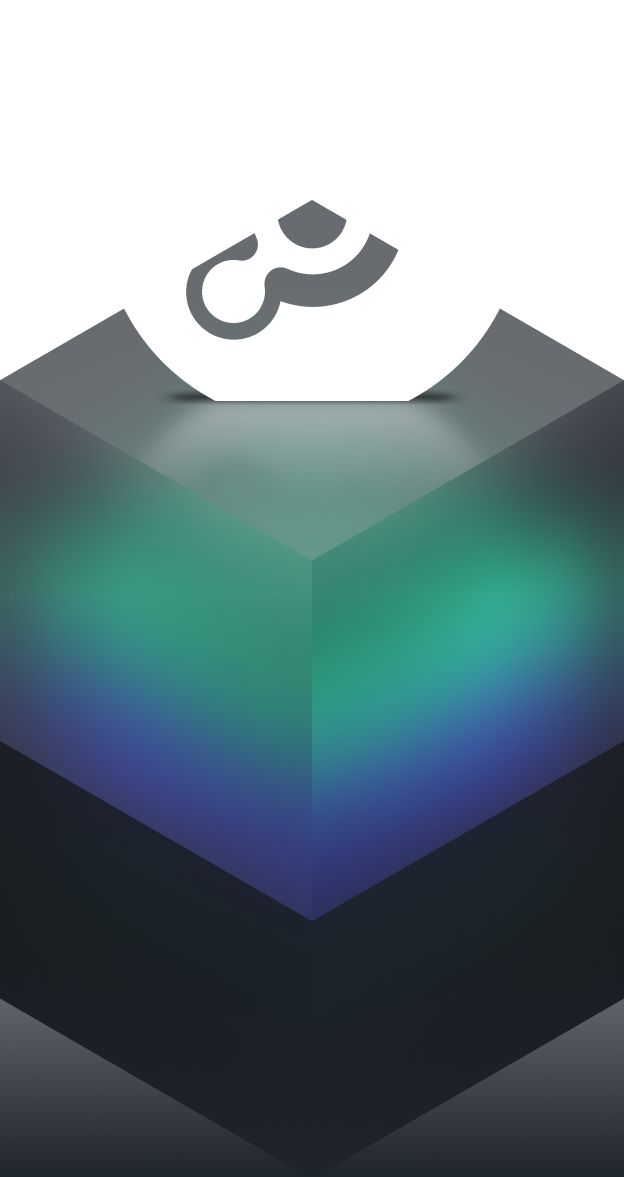
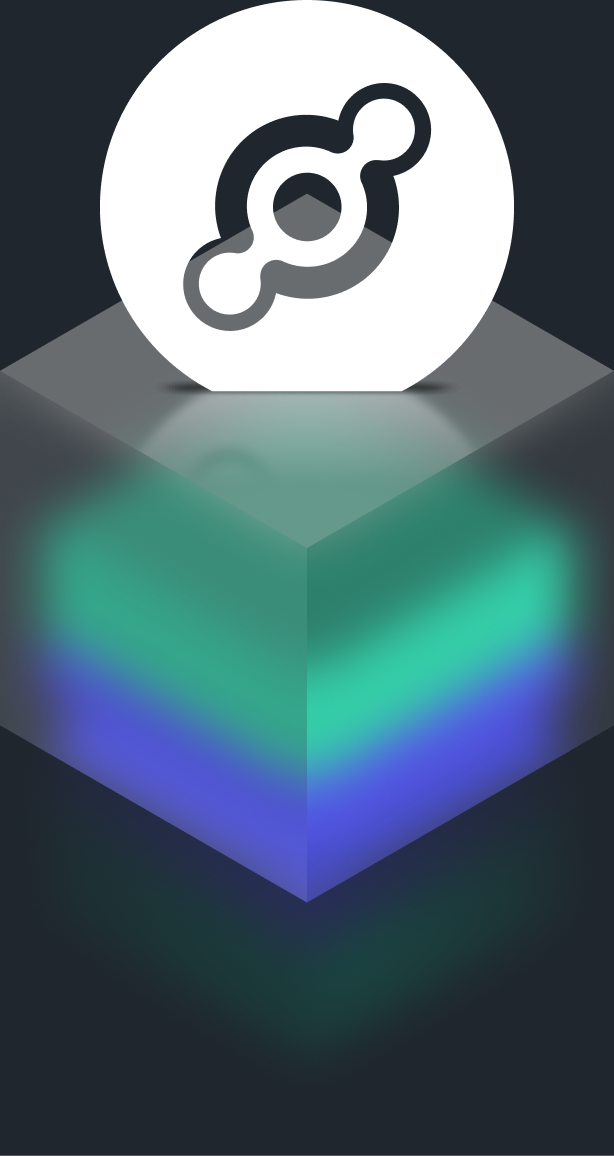
Jh/styling (#140)
* Use pre-rendered Helium Governance logo
* Fix thin white line around token logos
* Touchup hero
* Some padding to help the hero icon not look stuck to the edge
* Touchup network selectors
* Simplify opening banner copy
* Drop card border
* Touchup and shrink 'no active votes' placeholder.
* Touchup header pt 2

diff --git a/src/components/Header.tsx b/src/components/Header.tsx
@@ -23,10 +23,21 @@ export const Header: FC<{
             href="/"
             className="flex flex-row justifiy-center items-center gap-2"
           >
-            <div className="size-8 rounded-full relative">
-              <Image alt="logo" src="/images/logo.svg" fill />
+            <div className="size-8 relative sm:hidden">
+              <Image
+                alt="Helium Governance Logo"
+                src="/images/logo-roundel.svg"
+                fill
+              />
             </div>
-            <h4 className="max-sm:hidden">governance</h4>
+            <div className="h-8 w-36 relative max-sm:hidden">
+              <Image
+                alt="Helium Governance Logo"
+                src="/images/logo-wordmark.svg"
+                width={140}
+                height={20}
+              />
+            </div>
           </Link>
           <div className="flex flex-row flex-grow gap-4 justify-end items-center">
             <VeTokensCallout />
@@ -36,13 +47,17 @@ export const Header: FC<{
       </div>
       {!hideHero && (
         <ContentSection>
-          <div className="flex flex-row h-[342px] py-6 justify-between max-md:py-12 max-md:h-auto">
+          <div className="flex flex-row h-[342px] py-6 justify-between items-start max-md:py-12 max-md:h-auto">
             <div className="flex justify-center items-center">
               <div>
-                <h1>Helium Governance</h1>
-                <p className="max-w-lg mt-4 text-slate-50">
-                  Helium Vote is where the community comes together to make
-                  decisions on the network.
+                <h1 className="max-md:text-5xl text-7xl">
+                  Helium
+                  <br />
+                  Governance
+                </h1>
+                <p className="max-w-lg mt-4 text-slate-50 text-lg leading-5">
+                  Where the community comes together to make decisions on
+                  the network.
                 </p>
               </div>
             </div>

diff --git a/src/components/NetworkTabs.tsx b/src/components/NetworkTabs.tsx
@@ -15,15 +15,15 @@ const NetworkTab: FC<{
   <Link
     href={href}
     className={classNames(
-      "flex flex-col justify-end cursor-pointer text-slate-50 hover:text-foreground",
+      "flex flex-col justify-end cursor-pointer text-slate-50 max-md:pr-1 hover:text-foreground",
       { "!text-foreground": active }
     )}
   >
-    <div className="flex flex-row justify-cente items-center gap-4 max-md:gap-2">
-      <div className="size-7 rounded-full relative">
+    <div className="flex flex-row justify-center items-center gap-2 pl-2 pr-2 max-md:pl-1 max-md:pr-1">
+      <div className="size-6 rounded-full relative">
         <Image alt={`${name} icon`} src={icon} fill />
       </div>
-      <p className="pr-4 text-sm">{name}</p>
+      <p className="text-md font-normal">{name}</p>
     </div>
     <div className={classNames("flex h-1 mt-3", { "bg-primary": active })} />
   </Link>

diff --git a/src/components/Proposals.tsx b/src/components/Proposals.tsx
@@ -80,11 +80,11 @@ export const Proposals: FC<React.PropsWithChildren<{ className?: string }>> = ({
       <section className="flex flex-col gap-4">
         <h4>Open Votes</h4>
         {activeProposals.length === 0 ? (
-          <Card className="py-10">
-            <div className="flex flex-col items-center justify-center p-11">
+          <Card className="py-2">
+            <div className="flex flex-col items-center justify-center p-6">
               <h3 className="text-xl text-muted-foreground">No Active Votes</h3>
               <p className="text-sm text-center text-muted-foreground">
-                There are no active votes for this network at this time
+                There are currently no active votes on this network.
               </p>
             </div>
           </Card>

diff --git a/src/components/NetworkBanner.tsx b/src/components/NetworkBanner.tsx
@@ -40,7 +40,7 @@ export const NetworkBanner: FC = () => {
             <h5>Voting is enabled by locking tokens within this network</h5>
             <p className="text-sm text-slate-100">
               Create a vote escrow position using either HNT, MOBILE, or IOT
-              tokens depending on the network you&apos;re on
+              tokens
             </p>
           </div>
           <div className="flex flex-row gap-4 max-md:w-full max-md:gap-12">

diff --git a/src/components/ContentSection.tsx b/src/components/ContentSection.tsx
@@ -6,7 +6,7 @@ export const ContentSection: FC<
 > = ({ children, className }) => (
   <div
     className={classNames(
-      "flex flex-col max-w-7xl w-full mx-auto px-4",
+      "flex flex-col max-w-7xl w-full mx-auto px-16 max-lg:px-8 max-md:px-4 max-sm:px-2",
       className
     )}
   >

diff --git a/src/components/ui/card.tsx b/src/components/ui/card.tsx
@@ -9,7 +9,7 @@ const Card = React.forwardRef<
   <div
     ref={ref}
     className={cn(
-      "rounded-lg border bg-card text-card-foreground shadow-sm",
+      "rounded-lg bg-card text-card-foreground shadow-sm",
       className
     )}
     {...props}
